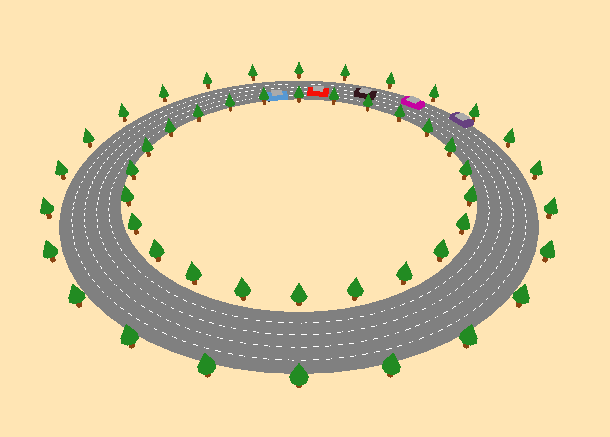
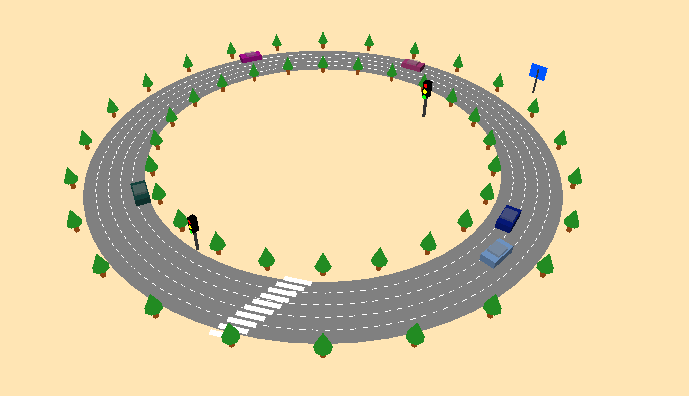
- 신호등, 사인, 횡단보도 추가.

Changed region(s): [[0.0623, 0.0909, 0.9344, 0.9091], [0.623, 0.7273, 0.6541, 0.7576]]

diff --git a/DigitalTwin/script.js b/DigitalTwin/script.js
@@ -143,7 +143,7 @@ function createCar(id, color) {
 
     // 일정 주기로 API 통신 (5초마다 위치와 속도 전송)
     const intervalId = setInterval(() => {
-        apiCall('http://localhost:8080/hello', responseTimesK8s)
+        //apiCall('http://localhost:8080/hello', responseTimesK8s)
     }, 10000);
 
     activeIntervals[id] = intervalId; // 자동차 ID로 interval 저장
@@ -295,7 +295,94 @@ function renderBackGround() {
         createTree(xInner, zInner);
     }
 
+    // 신호등
+    createTrafficLight(4, 3, roadRadius + laneWidth * 2.5 , 1);
+    createTrafficLight(14, 13, roadRadius + laneWidth * 3 , 0.67);
+
+    // 횡단보도 생성
+    createCrosswalk(5, roadRadius);
+
+    // 간판 생성
+    createSign(5, 1, -roadRadius - 2);
+    createSign(5, 1.3, -roadRadius - 2);
+
 }
+
+function createCrosswalk(centerX, radius) {
+    const crosswalkWidth = 1;
+    const lineLength = 0.2;
+    const lineSpacing = 0.15;
+
+    for (let i = -5; i < 5; i++) {
+        const lineGeometry = new THREE.PlaneGeometry(lineLength, crosswalkWidth);
+        const lineMaterial = new THREE.MeshBasicMaterial({ color: 0xffffff, side: THREE.DoubleSide });
+        const line = new THREE.Mesh(lineGeometry, lineMaterial);
+        
+        // 횡단보도 선 배치
+        line.rotation.x = -Math.PI / 2; // 평면을 지면과 평행하게 배치
+        line.rotation.z = Math.PI / 1.5;  // 90도 회전하여 세로 방향으로 배치
+        line.position.set(centerX, 0.01, radius + i * (lineLength + lineSpacing));
+        
+        scene.add(line);
+    }
+}
+
+function createSign(x, y, z) {
+    const sign = new THREE.Group();
+
+    // 간판 기둥
+    const poleGeometry = new THREE.CylinderGeometry(0.05, 0.05, 1);
+    const poleMaterial = new THREE.MeshBasicMaterial({ color: 0x333333 });
+    const pole = new THREE.Mesh(poleGeometry, poleMaterial);
+    pole.position.set(x, y + 0.5, z);
+    sign.add(pole);
+
+    // 간판 본체
+    const signGeometry = new THREE.BoxGeometry(0.8, 0.4, 0.05);
+    const signMaterial = new THREE.MeshBasicMaterial({ color: 0x0055ff });
+    const signBox = new THREE.Mesh(signGeometry, signMaterial);
+    signBox.position.set(x, y + 1, z);
+    sign.add(signBox);
+
+    // 간판 텍스트 (Texture를 사용하여 텍스트를 추가할 수 있습니다)
+    // 간단한 텍스트는 TextGeometry를 통해 추가 가능
+
+    scene.add(sign);
+}
+
+function createTrafficLight(x, y, z, scale = 1) {
+    const trafficLight = new THREE.Group();
+
+    // 신호등 기둥
+    const poleGeometry = new THREE.CylinderGeometry(0.05, 0.05, 1);
+    const poleMaterial = new THREE.MeshBasicMaterial({ color: 0x333333 });
+    const pole = new THREE.Mesh(poleGeometry, poleMaterial);
+    pole.position.set(x, y + 0.5, z);
+    trafficLight.add(pole);
+
+    // 신호등 본체
+    const lightBoxGeometry = new THREE.BoxGeometry(0.2, 0.5, 0.2);
+    const lightBoxMaterial = new THREE.MeshBasicMaterial({ color: 0x000000 });
+    const lightBox = new THREE.Mesh(lightBoxGeometry, lightBoxMaterial);
+    lightBox.position.set(x, y + 1, z);
+    trafficLight.add(lightBox);
+
+    // 빨간불, 노란불, 초록불
+    const lightColors = [0xff0000, 0xffff00, 0x00ff00];
+    lightColors.forEach((color, index) => {
+        const lightGeometry = new THREE.CircleGeometry(0.07, 16);
+        const lightMaterial = new THREE.MeshBasicMaterial({ color });
+        const light = new THREE.Mesh(lightGeometry, lightMaterial);
+        light.position.set(x, y + 1.15 - index * 0.2, z + 0.11);
+        trafficLight.add(light);
+    });
+
+    // 스케일 조정
+    trafficLight.scale.set(scale, scale, scale);
+
+    scene.add(trafficLight);
+}
+
 
 function getRandomColor() {
     return Math.floor(Math.random() * 0xffffff);
